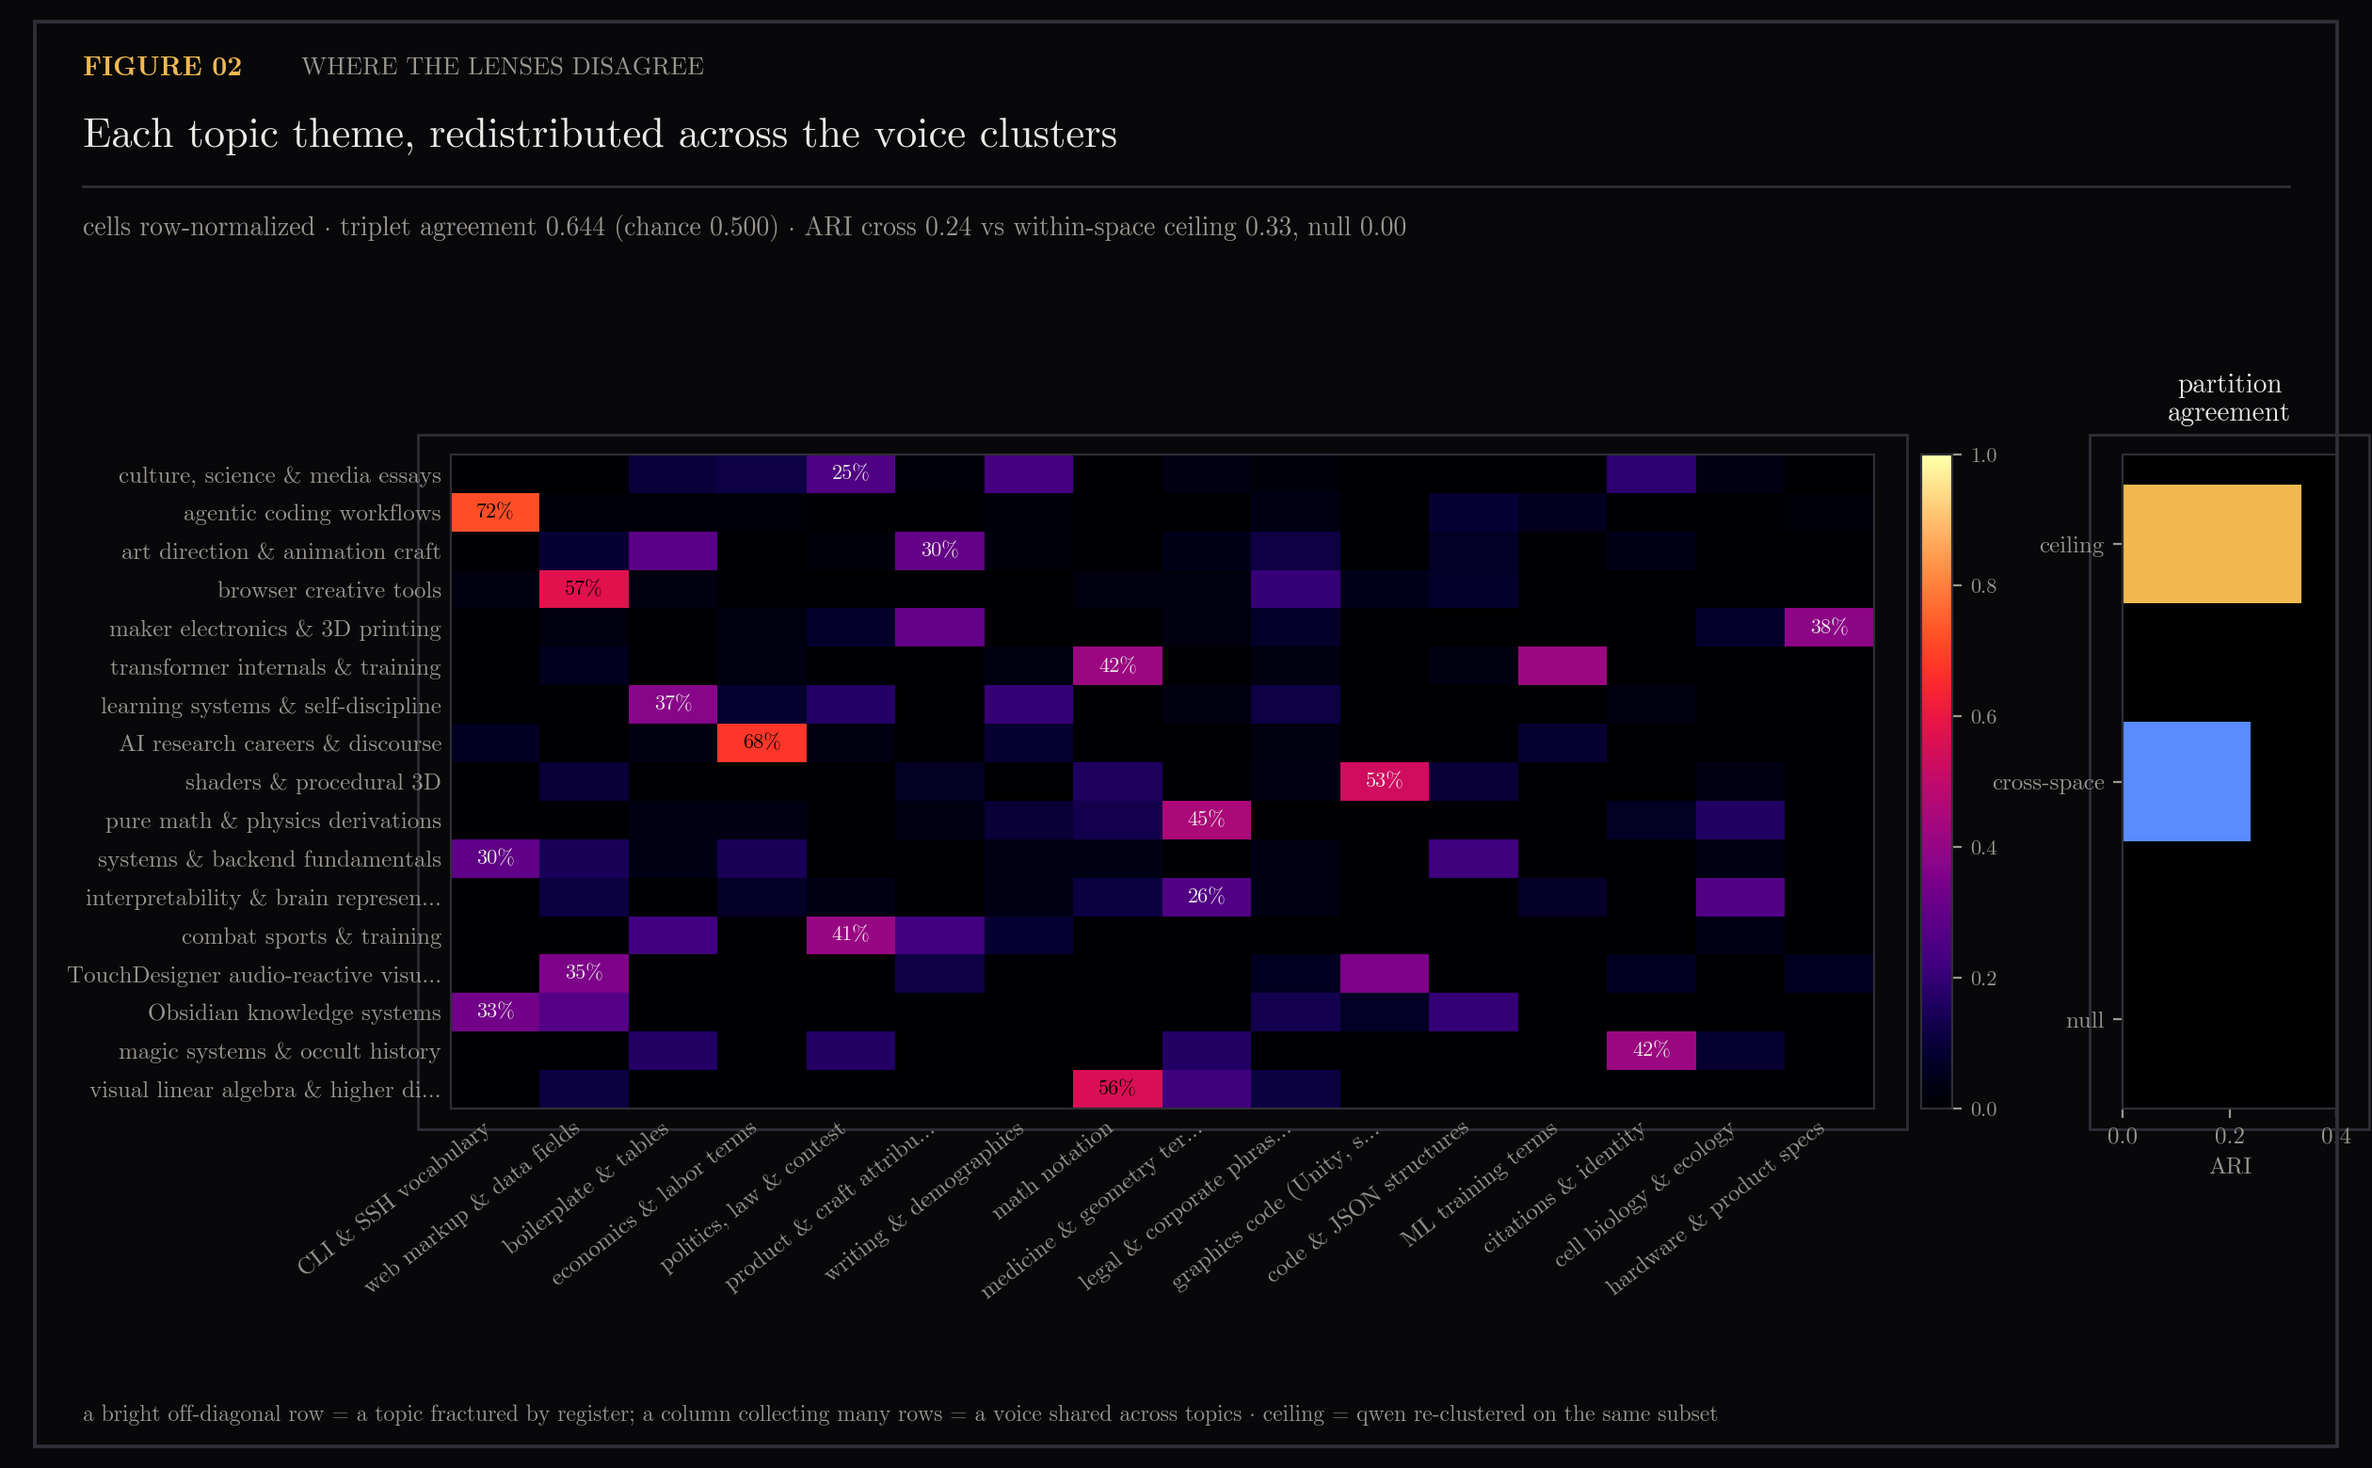
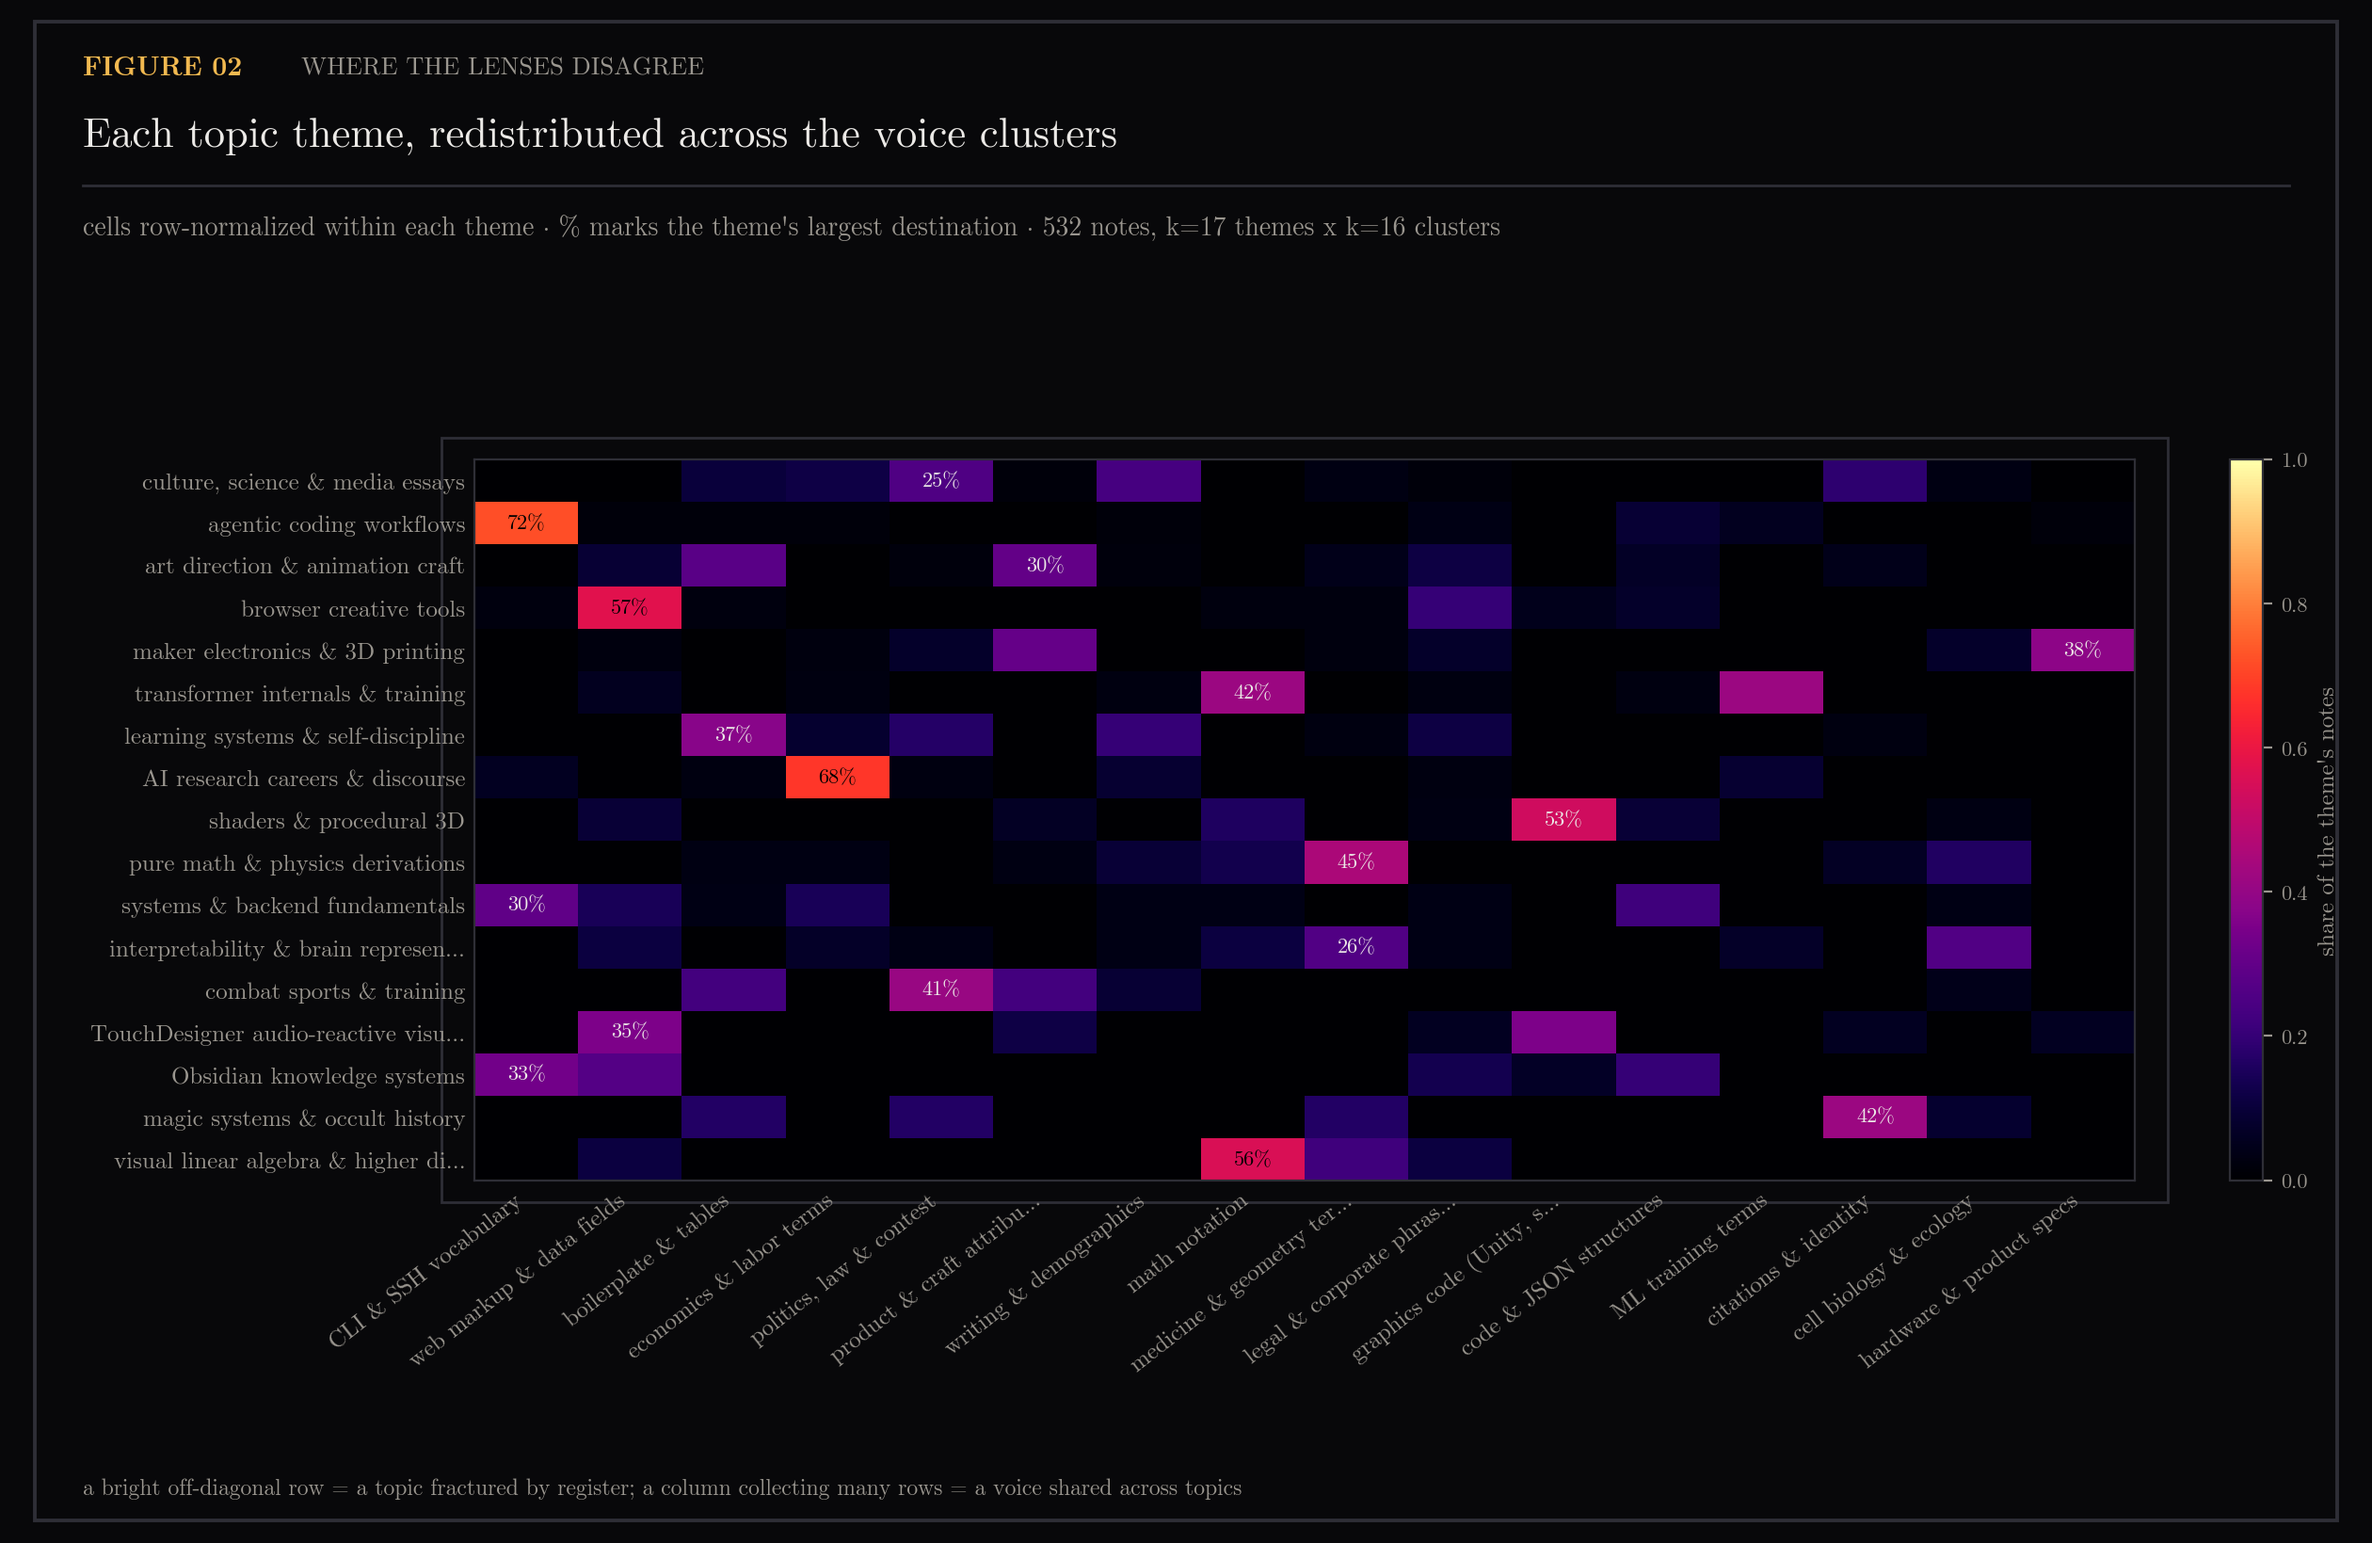
refactor(22): split the mapping figure and put a legend on every chart
The agreement ladder was squatting in the matrix figure's margin — both
suffered. The matrix now takes the full canvas with a labeled colorbar
as its legend; agreement gets its own figure (03) pairing the ARI ladder
against its measured ceiling with triplet agreement against chance, which
is the honest reading order anyway: how blunt is the instrument, then how
far apart are the spaces. Noise floor renumbers to 04 and gains a legend
naming its point classes; the profile bars name their source split
(YouTube/web vs Instagram) in-panel instead of in a caption footnote.

diff --git a/scripts/plot_two_lenses.py b/scripts/plot_two_lenses.py
@@ -313,6 +313,21 @@ def hdr_fix(fig):
     fig.texts[1].set_x(MARGIN + 0.092)
 
 
+def dark_legend(ax, handles, loc="lower right"):
+    leg = ax.legend(
+        handles=handles,
+        loc=loc,
+        fontsize=9,
+        facecolor=PANEL,
+        edgecolor=FRAME,
+        labelcolor=TEXT,
+        framealpha=1.0,
+        borderpad=0.7,
+    )
+    leg.set_zorder(6)
+    return leg
+
+
 # --- figures ----------------------------------------------------------------
 def fig01(d):
     fig, top = figure(
@@ -354,15 +369,23 @@ def fig01(d):
     axR.set_yticks(y, [short(CLUSTER_LABELS[c["cluster"]], 27) for c in cls])
     panel_title(axR, "Gemma SAE — how the notes speak")
 
-    for ax in (axL, axR):
+    from matplotlib.patches import Patch
+
+    for ax, hue in ((axL, GOLD), (axR, BLUE)):
         style_axes(ax)
         ax.set_xlabel("notes", fontsize=TICK_SIZE)
         ax.set_xlim(0, 72)
+        dark_legend(
+            ax,
+            [
+                Patch(facecolor=hue, label="YouTube / web"),
+                Patch(facecolor=DIM, edgecolor=hue, linewidth=0.6, label="Instagram"),
+            ],
+        )
     fig.text(
         MARGIN,
         0.032,
-        "dim bar segment = instagram share of the group · gemma labels condense top differential "
-        "SAE features; auto-names are unprobed hypotheses (18.x)",
+        "gemma labels condense top differential SAE features; auto-names are unprobed hypotheses (18.x)",
         color=MUTED,
         fontsize=8.5,
     )
@@ -370,15 +393,14 @@ def fig01(d):
 
 
 def fig02(d):
-    stats = d["stats"]
     fig, top = figure(
         12.6,
-        7.8,
+        8.2,
         2,
         "where the lenses disagree",
         "Each topic theme, redistributed across the voice clusters",
-        meta=f"cells row-normalized · triplet agreement {stats['triplet']:.3f} (chance 0.500) · "
-        f"ARI cross {stats['ari_cross']:.2f} vs within-space ceiling {stats['ari_ceiling']:.2f}, null {stats['ari_null']:.2f}",
+        meta="cells row-normalized within each theme · % marks the theme's largest destination · "
+        "532 notes, k=17 themes x k=16 clusters",
     )
     qc = Counter(d["qwen_theme"])
     rows = [t for t, _ in qc.most_common()]
@@ -391,7 +413,7 @@ def fig02(d):
     R = M / M.sum(1, keepdims=True)
 
     hdr_fix(fig)
-    ax = fig.add_axes([MARGIN + 0.155, 0.245, 0.60, top - 0.31])
+    ax = fig.add_axes([MARGIN + 0.165, 0.235, 0.70, top - 0.30])
     im = ax.imshow(R, cmap=saturated_magma(), vmin=0, vmax=1, aspect="auto")
     ax.set_yticks(range(len(rows)), [short(t, 34) for t in rows])
     ax.set_xticks(
@@ -414,31 +436,18 @@ def fig02(d):
             fontsize=8,
             color=PANEL if v > 0.55 else TEXT,
         )
-    cax = fig.add_axes([MARGIN + 0.775, 0.245, 0.013, top - 0.31])
+    cax = fig.add_axes([MARGIN + 0.905, 0.235, 0.014, top - 0.30])
     cb = fig.colorbar(im, cax=cax)
+    cb.set_label("share of the theme's notes", color=MUTED, fontsize=9)
     cb.ax.tick_params(colors=MUTED, labelsize=8)
     cb.outline.set_edgecolor(FRAME)
     cax._is_colorbar = True
-
-    axb = fig.add_axes([MARGIN + 0.86, 0.245, 0.09, top - 0.31])
-    ladder = [
-        ("null", stats["ari_null"], DIM),
-        ("cross-space", stats["ari_cross"], BLUE),
-        ("ceiling", stats["ari_ceiling"], GOLD),
-    ]
-    yb = np.arange(len(ladder))
-    axb.barh(yb, [v for _, v, _ in ladder], color=[c for *_, c in ladder], height=0.5)
-    axb.set_yticks(yb, [n for n, *_ in ladder])
-    axb.set_xlim(0, 0.4)
-    style_axes(axb)
-    axb.set_xlabel("ARI", fontsize=TICK_SIZE)
-    panel_title(axb, "partition\nagreement", width=12)
 
     fig.text(
         MARGIN,
         0.032,
         "a bright off-diagonal row = a topic fractured by register; a column collecting many rows = a "
-        "voice shared across topics · ceiling = qwen re-clustered on the same subset",
+        "voice shared across topics",
         color=MUTED,
         fontsize=8.5,
     )
@@ -446,11 +455,80 @@ def fig02(d):
 
 
 def fig03(d):
+    stats = d["stats"]
+    fig, top = figure(
+        12.6,
+        5.6,
+        3,
+        "how far apart are the views",
+        "Partition agreement against its measured ceiling, and raw geometry agreement",
+        meta="ceiling = Qwen re-clustered on the same 532 notes at k=16 vs its own production themes · "
+        "same seeded KMeans everywhere",
+    )
+    hdr_fix(fig)
+    from matplotlib.lines import Line2D
+
+    axa = fig.add_axes([MARGIN + 0.13, 0.16, 0.36, top - 0.24])
+    ladder = [
+        ("shuffled null", stats["ari_null"], DIM),
+        ("Gemma vs themes", stats["ari_cross"], BLUE),
+        ("Qwen recluster\nvs themes (ceiling)", stats["ari_ceiling"], GOLD),
+    ]
+    yb = np.arange(len(ladder))
+    axa.barh(yb, [v for _, v, _ in ladder], color=[c for *_, c in ladder], height=0.52)
+    for yi, (_, v, _) in zip(yb, ladder):
+        axa.text(v + 0.008, yi, f"{v:.2f}", color=TEXT, fontsize=9.5, va="center")
+    axa.set_yticks(yb, [n for n, *_ in ladder])
+    axa.set_xlim(0, 0.42)
+    style_axes(axa)
+    axa.set_xlabel("adjusted Rand index", fontsize=TICK_SIZE)
+    panel_title(axa, "partition agreement — who groups with whom")
+
+    axt = fig.add_axes([MARGIN + 0.60, 0.16, 0.335, top - 0.24])
+    axt.barh([0], [stats["triplet"]], color=CYAN, height=0.42)
+    axt.text(
+        stats["triplet"] + 0.012,
+        0,
+        f"{stats['triplet']:.3f}",
+        color=TEXT,
+        fontsize=9.5,
+        va="center",
+    )
+    axt.axvline(0.5, color=RED, linewidth=1.2, linestyle="--")
+    axt.axvline(1.0, color=MUTED, linewidth=1.0, linestyle=":")
+    axt.set_yticks([0], ["Qwen vs Gemma"])
+    axt.set_xlim(0.4, 1.05)
+    axt.set_ylim(-0.9, 0.9)
+    style_axes(axt)
+    axt.set_xlabel("triplet agreement", fontsize=TICK_SIZE)
+    panel_title(axt, "geometry agreement — who is nearer to whom")
+    dark_legend(
+        axt,
+        [
+            Line2D([], [], color=RED, linewidth=1.2, linestyle="--", label="chance (0.5)"),
+            Line2D(
+                [], [], color=MUTED, linewidth=1.0, linestyle=":", label="identical spaces (1.0)"
+            ),
+        ],
+        loc="upper right",
+    )
+    fig.text(
+        MARGIN,
+        0.045,
+        "the views share well-above-chance structure, yet the voice partition explains barely 71% of what "
+        "even a within-space rerun recovers — and that ceiling itself is low: this corpus is gradients, not clusters",
+        color=MUTED,
+        fontsize=8.5,
+    )
+    return fig, "03-agreement.png"
+
+
+def fig04(d):
     runs = d["scores"]
     fig, top = figure(
         12.6,
         6.8,
-        3,
+        4,
         "the referee's noise floor",
         "One frozen eval cohort, thirteen profile runs — the score that moves without the corpus",
         meta="all runs share fingerprint b2574824… (8 positives / 24 negatives) · "
@@ -501,7 +579,31 @@ def fig03(d):
     ax.set_ylabel("multi-positive nDCG (SigLIP referee)", fontsize=TICK_SIZE)
     ax.set_ylim(lo - 0.06, hi + 0.075)
     style_axes(ax)
-    return fig, "03-noise-floor.png"
+    from matplotlib.lines import Line2D
+    from matplotlib.patches import Patch
+
+    mk = lambda c, label: Line2D(
+        [],
+        [],
+        marker="o",
+        linestyle="none",
+        markersize=8,
+        markerfacecolor=c,
+        markeredgecolor=TEXT,
+        markeredgewidth=0.6,
+        label=label,
+    )
+    dark_legend(
+        ax,
+        [
+            mk(GOLD, "profile run"),
+            mk(RED, "same-corpus quartet (n=280)"),
+            mk(CYAN, "today's snapshot"),
+            Patch(facecolor=DIM, alpha=0.35, label="observed range (0.517–0.737)"),
+        ],
+        loc="upper left",
+    )
+    return fig, "04-noise-floor.png"
 
 
 def main():
@@ -520,7 +622,7 @@ def main():
             indent=1,
         )
     )
-    for f in (fig01, fig02, fig03):
+    for f in (fig01, fig02, fig03, fig04):
         fig, name = f(d)
         frame_panels(fig)
         out = OUTDIR / name

diff --git a/docs/assets/22-two-lenses/notes.md b/docs/assets/22-two-lenses/notes.md
@@ -51,9 +51,11 @@ Cleanest theme→register concentrations (fig 02): agentic coding → CLI & SSH
 vocabulary (72%), AI research careers → economics & labor terms (68%),
 browser creative tools → web markup & data fields (57%), visual linear
 algebra → math notation (56%), shaders → graphics code (53%). Most
-fractured: culture, science & media essays (max cell 25%).
+fractured: culture, science & media essays (max cell 25%). Fig 03 carries
+the agreement evidence alone: the ARI ladder against its measured ceiling,
+and triplet agreement against chance.
 
-## The noise floor (fig 03)
+## The noise floor (fig 04)
 
 Side finding with teeth: all 13 scored profile runs share one frozen eval
 cohort (fingerprint `b2574824…`, 8 positives / 24 negatives), and the
